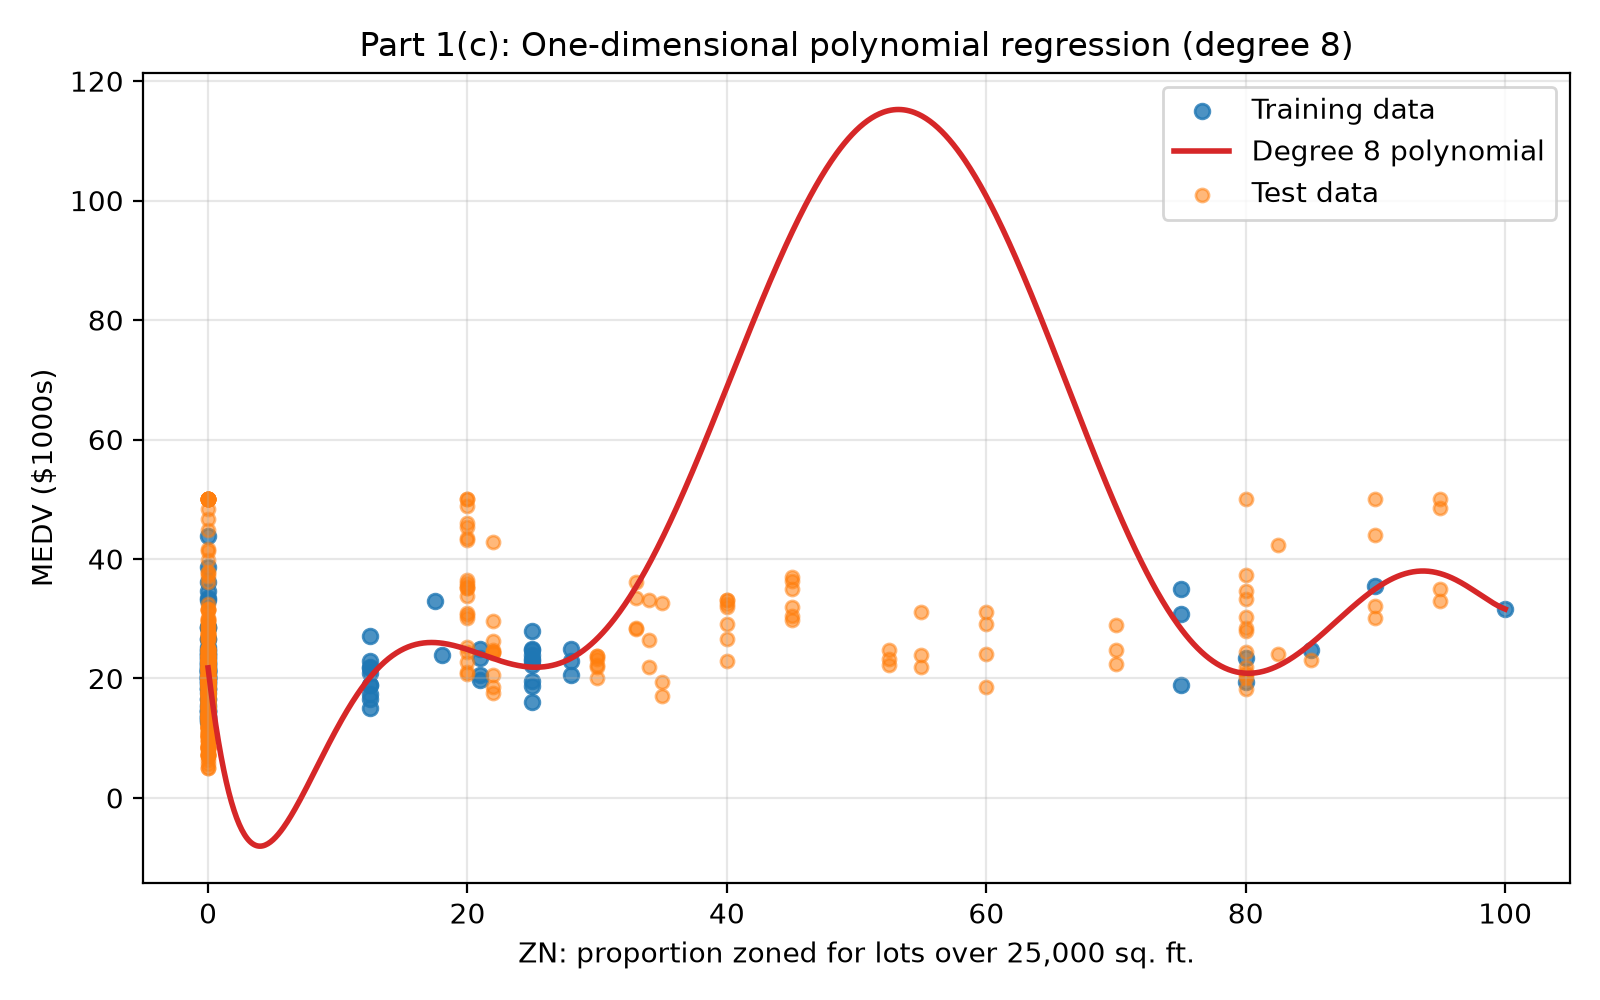
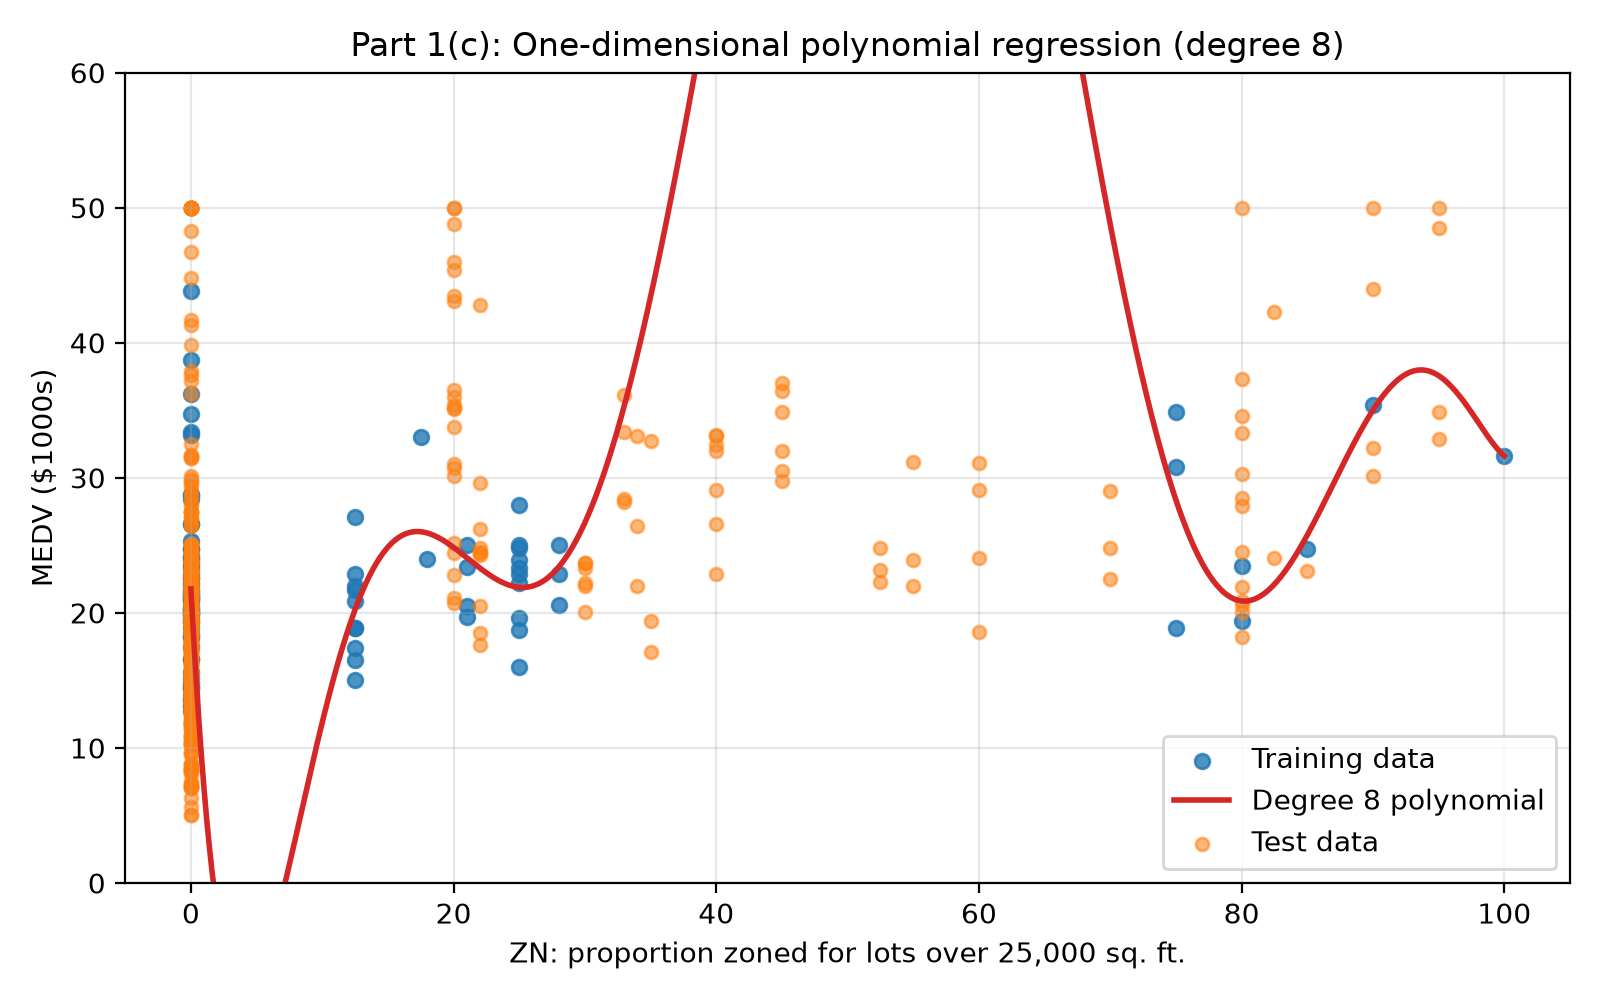
update

diff --git a/2/part1.py b/2/part1.py
@@ -101,7 +101,7 @@ def part_b(x_train, y_train):
     return fit_linear_regression(phi, y_train)
 
 
-def plot_one_dimensional_fit(raw_train, y_train, raw_test, y_test, degree):
+def polynomial_regression_1d_vis(raw_train, y_train, raw_test, y_test, degree):
     """Part 1(c): use Boston's second feature (ZN) and plot its fitted curve."""
     mean, std = fit_standardizer(raw_train[:, None])
     train_x = standardize(raw_train[:, None], mean, std)
@@ -118,6 +118,9 @@ def plot_one_dimensional_fit(raw_train, y_train, raw_test, y_test, degree):
     plt.xlabel("ZN: proportion zoned for lots over 25,000 sq. ft.")
     plt.ylabel("MEDV ($1000s)")
     plt.title(f"Part 1(c): One-dimensional polynomial regression (degree {degree})")
+    # Keep the housing-value observations readable when high-degree extrapolation
+    # produces values far outside the target range.
+    plt.ylim(0, 60)
     plt.grid(True, alpha=0.3)
     plt.legend()
     plt.tight_layout()
@@ -126,7 +129,7 @@ def plot_one_dimensional_fit(raw_train, y_train, raw_test, y_test, degree):
     return train_error, test_error
 
 
-def cross_validate_regularization(raw_x, targets, degree=8, folds=10):
+def polynomial_regression_reg(raw_x, targets, degree=8, folds=10):
     """Return 10-fold average validation RMS errors for every L2 constant.
 
     Each fold learns its scaling only from the fold's training partition.
@@ -152,8 +155,12 @@ def cross_validate_regularization(raw_x, targets, degree=8, folds=10):
 def plot_part_d(validation_errors):
     positive = LAMBDA_VALUES > 0
     plt.figure(figsize=(8, 5))
-    plt.semilogx(LAMBDA_VALUES[positive], validation_errors[positive], "o-", label="L2-regularized models")
-    plt.axhline(validation_errors[0], color="tab:gray", linestyle="--", label="Unregularized (λ = 0)")
+    plt.semilogx(
+        LAMBDA_VALUES[positive],
+        validation_errors[positive],
+        "o-",
+        label=f"L2-regularized (λ=0 baseline: {validation_errors[0]:.1f})",
+    )
     plt.xlabel("Regularization constant λ (log scale)")
     plt.ylabel("Average 10-fold validation RMS error")
     plt.title("Part 1(d): Degree-8 polynomial regularization")
@@ -166,7 +173,7 @@ def plot_part_d(validation_errors):
 
 def part_d(x_train, y_train):
     """Part 1(d): degree-eight, 10-fold CV using only the second feature (ZN)."""
-    validation_errors = cross_validate_regularization(x_train[:, 1], y_train)
+    validation_errors = polynomial_regression_reg(x_train[:, 1], y_train)
     plot_part_d(validation_errors)
     return validation_errors, LAMBDA_VALUES[np.argmin(validation_errors)]
 
@@ -179,7 +186,7 @@ def main():
     train_errors, test_errors = part_a(x_train, y_train, x_test, y_test)
     weights = part_b(x_train, y_train)
     one_d_errors = {
-        degree: plot_one_dimensional_fit(x_train[:, 1], y_train, x_test[:, 1], y_test, degree)
+        degree: polynomial_regression_1d_vis(x_train[:, 1], y_train, x_test[:, 1], y_test, degree)
         for degree in (1, 3, 8)
     }
     validation_errors, best_lambda = part_d(x_train, y_train)
